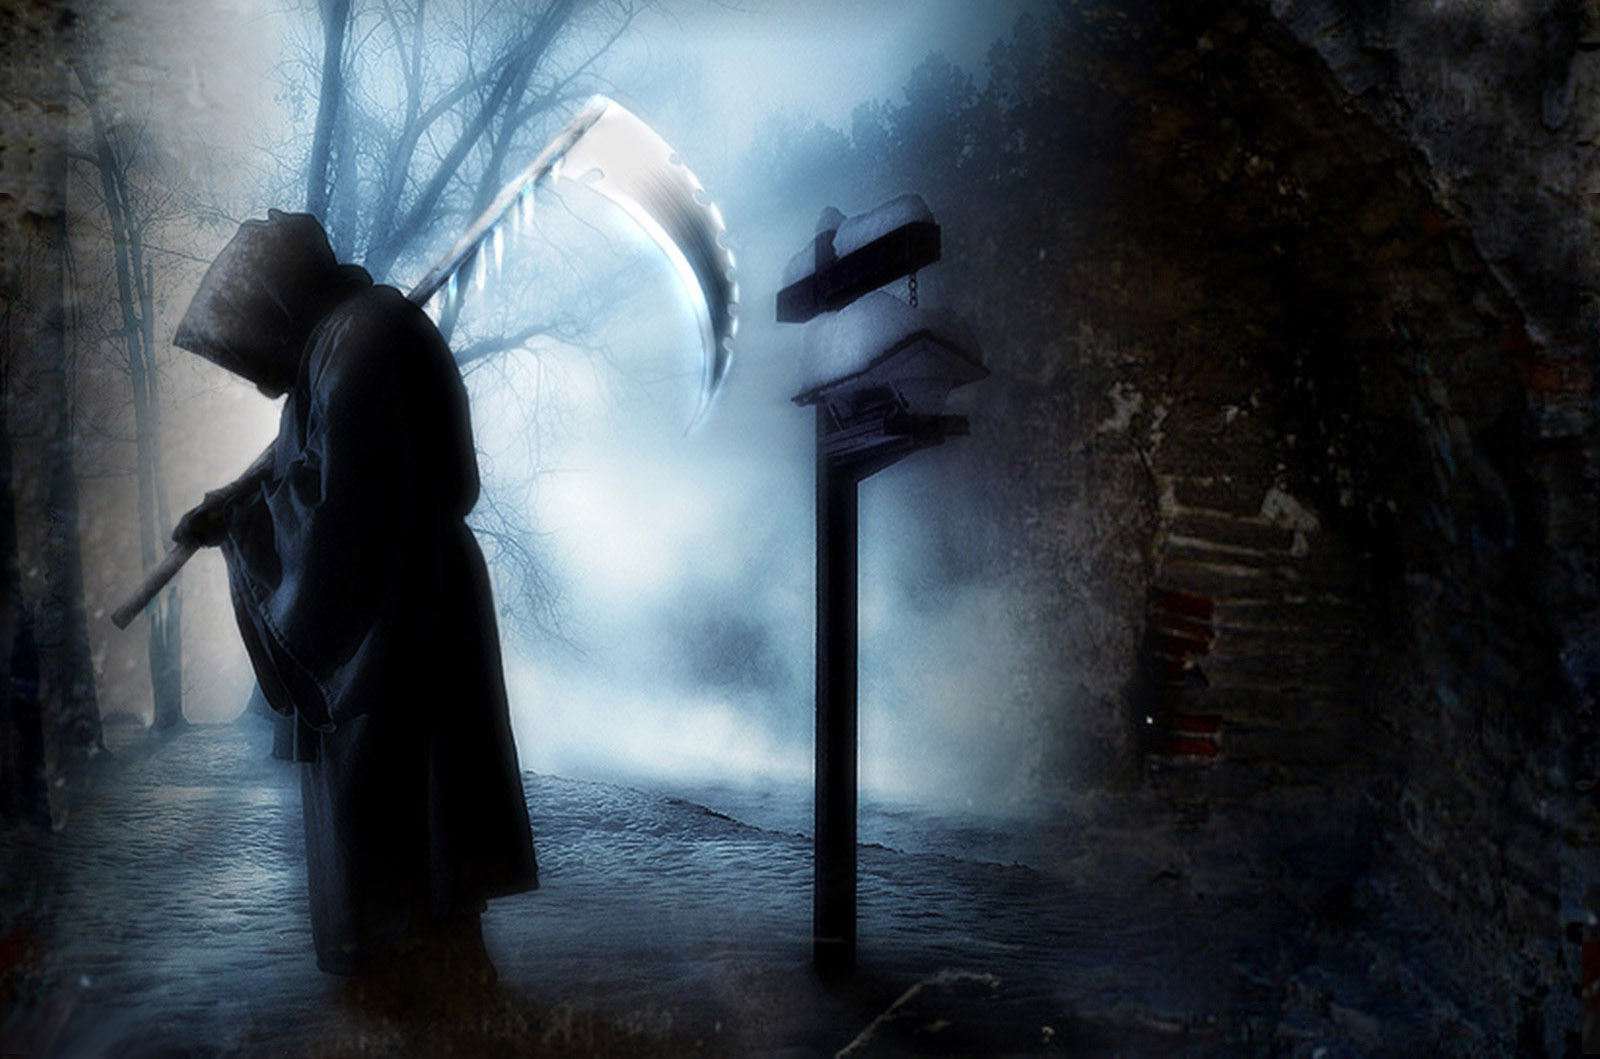
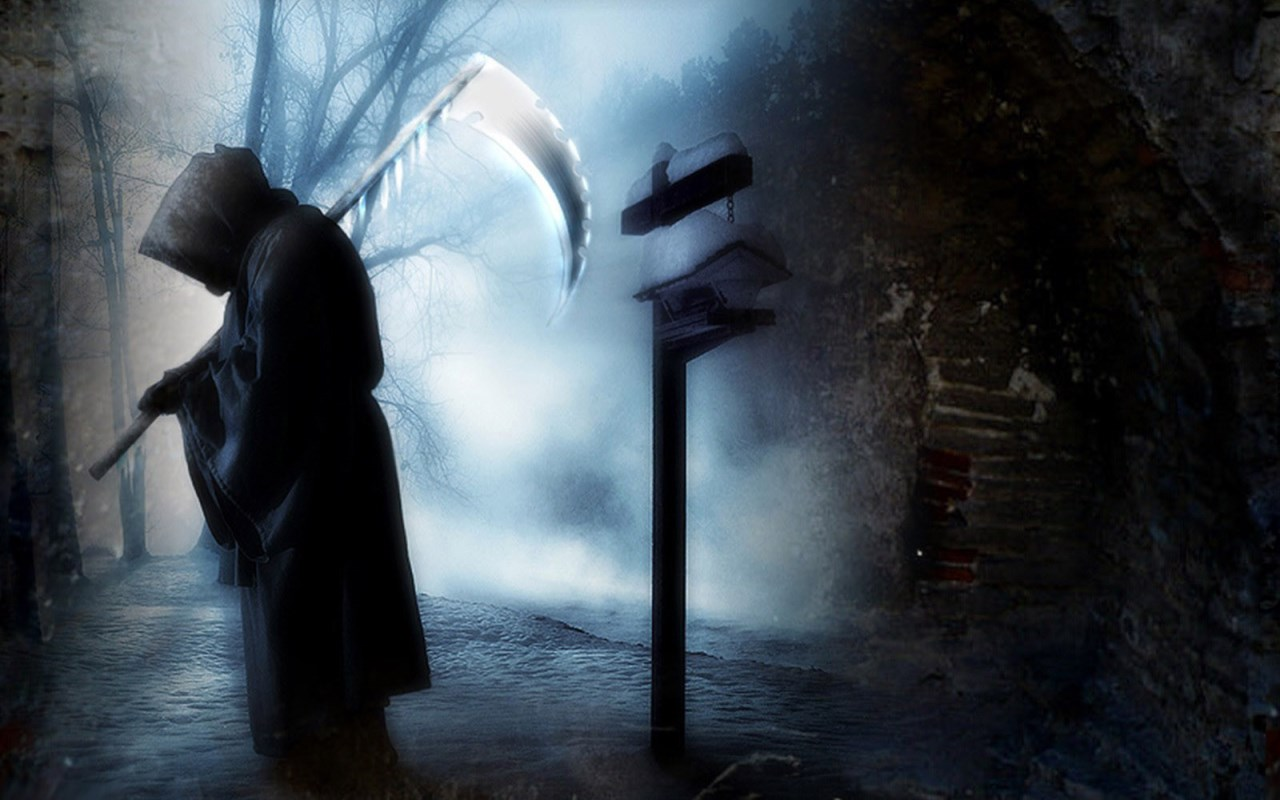
implemented secondary tile

diff --git a/DeathTimerz/View/DeathTimerzPanorama.xaml b/DeathTimerz/View/DeathTimerzPanorama.xaml
@@ -21,14 +21,15 @@
     </phone:PhoneApplicationPage.Resources>
 
     <Grid x:Name="LayoutRoot">
-        <controls:Panorama x:Name="MainPanorama" SelectionChanged="MainPanorama_SelectionChanged"
-                           DataContext="{StaticResource MainVM}">
+        <controls:Panorama Name="MainPanorama" DataContext="{StaticResource MainVM}"
+                           SelectionChanged="MainPanorama_SelectionChanged" >
             <controls:Panorama.Title>
                 <TextBlock Text="{Binding LocalizedResources.AppName, Source={StaticResource LocalizedStrings}}"
                            Style="{StaticResource RedChiller}" Margin="0,45,0,0" />
             </controls:Panorama.Title>
             <controls:Panorama.Background>
-                <ImageBrush ImageSource="/DeathTimerz;component/Images/DeathBackground.jpg" Stretch="None" />
+                <ImageBrush ImageSource="/DeathTimerz;component/Images/DeathBackground.jpg"
+                            Stretch="None" AlignmentY="Top" />
             </controls:Panorama.Background>
 
             <!--SuggestionText-->
@@ -37,14 +38,23 @@
                     <TextBlock Text="{Binding LocalizedResources.Suggestion, Source={StaticResource LocalizedStrings}}"
                                TextWrapping="Wrap" Style="{StaticResource RedChiller}" />
                 </controls:PanoramaItem.Header>
-                <ScrollViewer Name="SuggestionScrollViewer" Margin="0,-30,0,110">
-                    <TextBlock Name="SuggestionTextBlock"
+                <Grid Name="SuggestionGrid" Margin="0,-30,0,80">
+                    <Grid.RowDefinitions>
+                        <RowDefinition Height="*" />
+                        <RowDefinition Height="Auto" />
+                    </Grid.RowDefinitions>
+                    <ScrollViewer>
+                        <TextBlock Name="SuggestionTextBlock"
                                Text="{Binding SuggestionText}" 
                                TextWrapping="Wrap" Margin="10,0,0,0"
                                TextAlignment="Center" VerticalAlignment="Center"
                                FontSize="60"
                                Style="{StaticResource RedChiller}" />
-                </ScrollViewer>
+                    </ScrollViewer>
+                    <TextBlock Name="PinSuggestionTextBlock" Grid.Row="1"
+                               Text="Pin to Start to have a daily health suggestion!"
+                               VerticalAlignment="Bottom" HorizontalAlignment="Right" />
+                </Grid>
             </controls:PanoramaItem>
 
             <!--Age-->
@@ -53,7 +63,7 @@
                     <TextBlock Text="{Binding LocalizedResources.Age, Source={StaticResource LocalizedStrings}}"
                                Style="{StaticResource RedChiller}" />
                 </controls:PanoramaItem.Header>
-                <Grid  Margin="0,-30,0,110">
+                <Grid  Margin="0,-30,0,80">
                     <TextBlock Text="{Binding AgeText}" HorizontalAlignment="Left"
                                TextWrapping="Wrap" Margin="40,0,0,0"
                                FontSize="{StaticResource PhoneFontSizeExtraExtraLarge}"
@@ -134,14 +144,13 @@
             </controls:PanoramaItem>
         </controls:Panorama>
 
-        <StackPanel Name="AdPlaceHolder" Margin="0,0,0,30"
-                    VerticalAlignment="Bottom" />
+        <StackPanel Name="AdPlaceHolder" VerticalAlignment="Bottom" />
     </Grid>
 
     <phone:PhoneApplicationPage.ApplicationBar>
         <shell:ApplicationBar IsVisible="True" 
                               ForegroundColor="#FFBE0000"
-                              BackgroundColor="#FC171717"
+                              BackgroundColor="#FF171717"
                               Mode="Minimized" IsMenuEnabled="True" />
     </phone:PhoneApplicationPage.ApplicationBar>
 

diff --git a/DeathTimerz/View/DeathTimerzPanorama.xaml.cs b/DeathTimerz/View/DeathTimerzPanorama.xaml.cs
@@ -7,6 +7,7 @@ using System;
 using System.Windows;
 using System.Windows.Controls;
 using System.Windows.Navigation;
+using System.Linq;
 
 namespace DeathTimerz
 {
@@ -50,7 +51,7 @@ namespace DeathTimerz
         void ad1_ErrorOccurred(object sender, Microsoft.Advertising.AdErrorEventArgs e)
         {//Reset height in case the ad is not loaded
             TimeToDeathGrid.Margin = new Thickness(0, -30, 0, 0);
-            SuggestionScrollViewer.Margin = new Thickness(0, -30, 0, 0);
+            SuggestionGrid.Margin = new Thickness(0, -30, 0, 0);
         }
 
         protected override void OnNavigatedFrom(NavigationEventArgs e)
@@ -64,19 +65,17 @@ namespace DeathTimerz
             ApplicationBar.Mode = ApplicationBarMode.Minimized;
             ApplicationBar.Buttons.Remove(EditTestAppBarButton);
             ApplicationBar.Buttons.Remove(PinToStartAppBarButton);
-            AdPlaceHolder.Margin = new Thickness(0, 0, 0, 30);
 
-            if (MainPanorama.SelectedIndex == 0) //Health Suggestion
+            if (MainPanorama.SelectedIndex == 0 &&
+                PinToStartAppBarButton.IsEnabled) //Health Suggestion
             {
                 ApplicationBar.Buttons.Add(PinToStartAppBarButton);
                 ApplicationBar.Mode = ApplicationBarMode.Default;
-                AdPlaceHolder.Margin = new Thickness(0, 0, 0, 72);
             }
             else if (MainPanorama.SelectedIndex == 2) //Death-Test
             {
                 ApplicationBar.Buttons.Add(EditTestAppBarButton);
                 ApplicationBar.Mode = ApplicationBarMode.Default;
-                AdPlaceHolder.Margin = new Thickness(0, 0, 0, 72);
             }
         }
 
@@ -91,8 +90,11 @@ namespace DeathTimerz
 
             PinToStartAppBarButton = new ApplicationBarIconButton();
             PinToStartAppBarButton.IconUri = new Uri("Toolkit.Content\\appbar_pin.png", UriKind.Relative);
+            PinToStartAppBarButton.IsEnabled = ShellTile.ActiveTiles.Count() == 1;
             PinToStartAppBarButton.Text = AppResources.PinToStart;
             PinToStartAppBarButton.Click += (sender, e) => CreateSecondaryTile();
+            PinSuggestionTextBlock.Visibility = PinToStartAppBarButton.IsEnabled ?
+                Visibility.Visible : Visibility.Collapsed;
 
             var SettingsAppBarMenuItem = new ApplicationBarMenuItem();
             SettingsAppBarMenuItem.Text = Sounds.SoundManager.Instance.MusicEnabled ?
@@ -120,13 +122,14 @@ namespace DeathTimerz
 
         private void CreateSecondaryTile()
         {
+            var tileData = new StandardTileData()
+            {
+                Title = AppResources.AppName,
+                BackgroundImage = new Uri("/Background.png", UriKind.Relative),
+                BackBackgroundImage = new Uri("isostore:/Shared/ShellContent/LiveTileIcon.jpg"),
+            };
 
-
-        }
-
-        private void ApplicationBarIconButton_Click_1(object sender, EventArgs e)
-        {
-
+            ShellTile.Create(new Uri("/View/DeathTimerzPanorama.xaml", UriKind.Relative), tileData);
         }
     }
 

diff --git a/DeathTimerz/Localization/AppResources.Designer.cs b/DeathTimerz/Localization/AppResources.Designer.cs
@@ -296,6 +296,15 @@ namespace DeathTimerz.Localization {
         }
         
         /// <summary>
+        ///   Looks up a localized string similar to Pin to Start to receive a daily health suggestion on your Start Screen!.
+        /// </summary>
+        public static string PinToStartSuggestion {
+            get {
+                return ResourceManager.GetString("PinToStartSuggestion", resourceCulture);
+            }
+        }
+        
+        /// <summary>
         ///   Looks up a localized string similar to Do you want to stop the current music and play the gloomy background music of this app?.
         /// </summary>
         public static string PlayBackgroundMusic {

diff --git a/UpdateHealthAdvicesTask/ScheduledAgent.cs b/UpdateHealthAdvicesTask/ScheduledAgent.cs
@@ -68,7 +68,10 @@ namespace UpdateHealthAdvicesTask
                 WriteableBitmap wbmp = new TileControl(advice).ToTile();
                 wbmp.SaveJpeg(file, 336, 336, 0, 80);
                 var tileData = new StandardTileData() { BackBackgroundImage = new Uri("isostore:" + TilePath) };
-                ShellTile.ActiveTiles.First().Update(tileData);
+                foreach (var tile in ShellTile.ActiveTiles)
+                {
+                    tile.Update(tileData);
+                }
             }
         }
 
